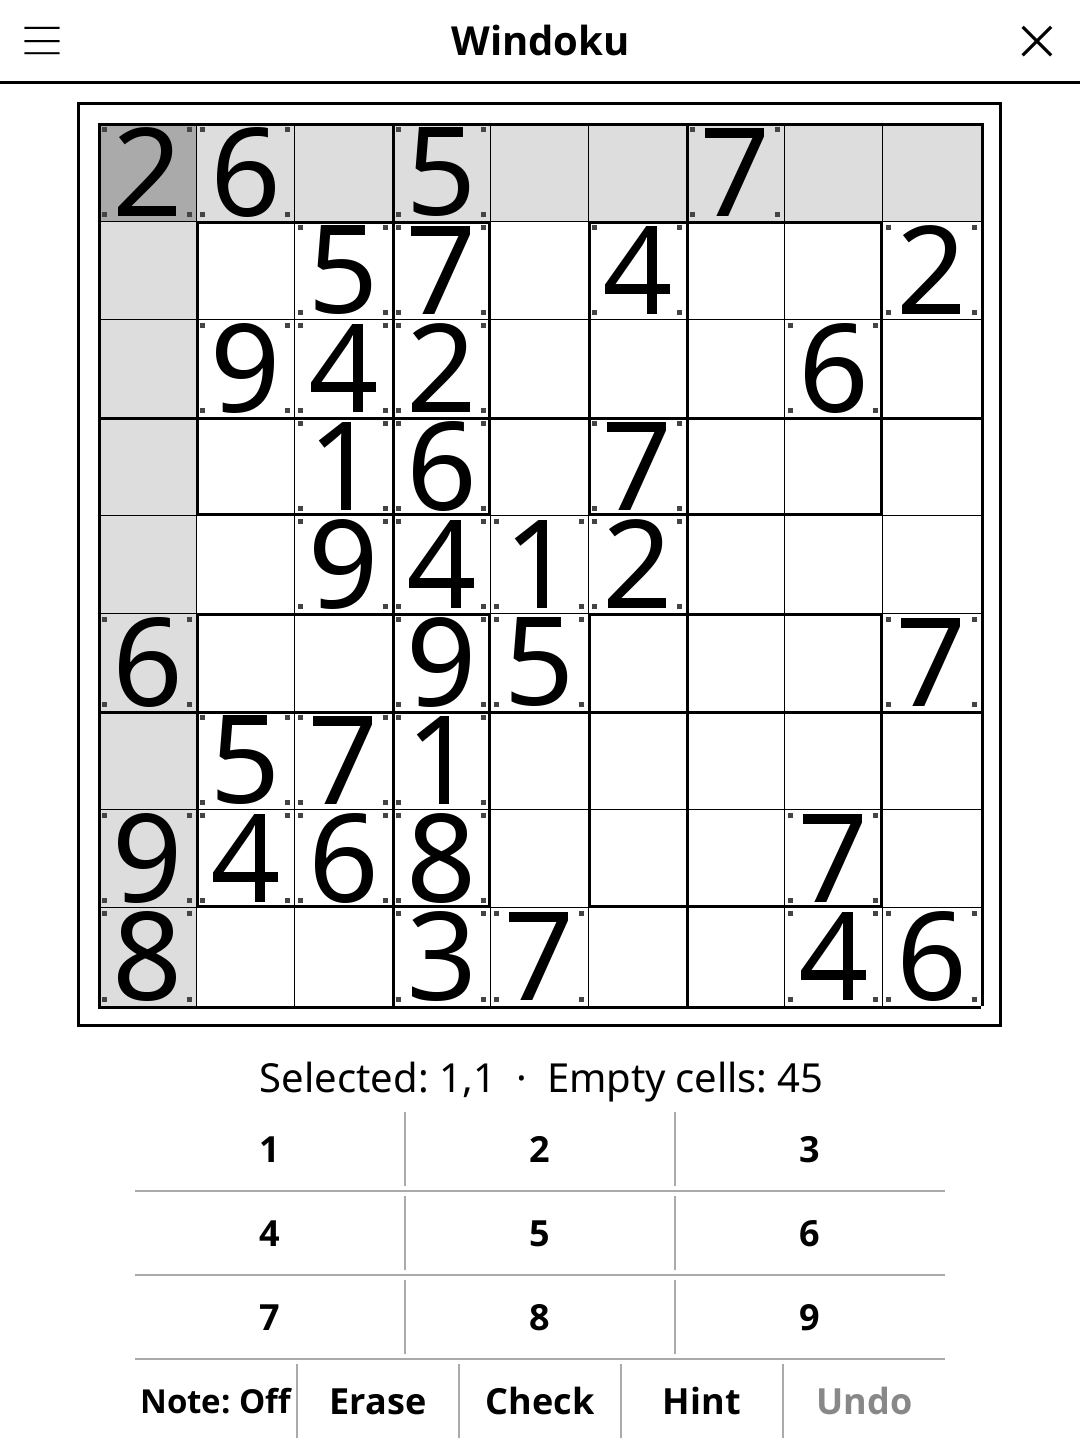
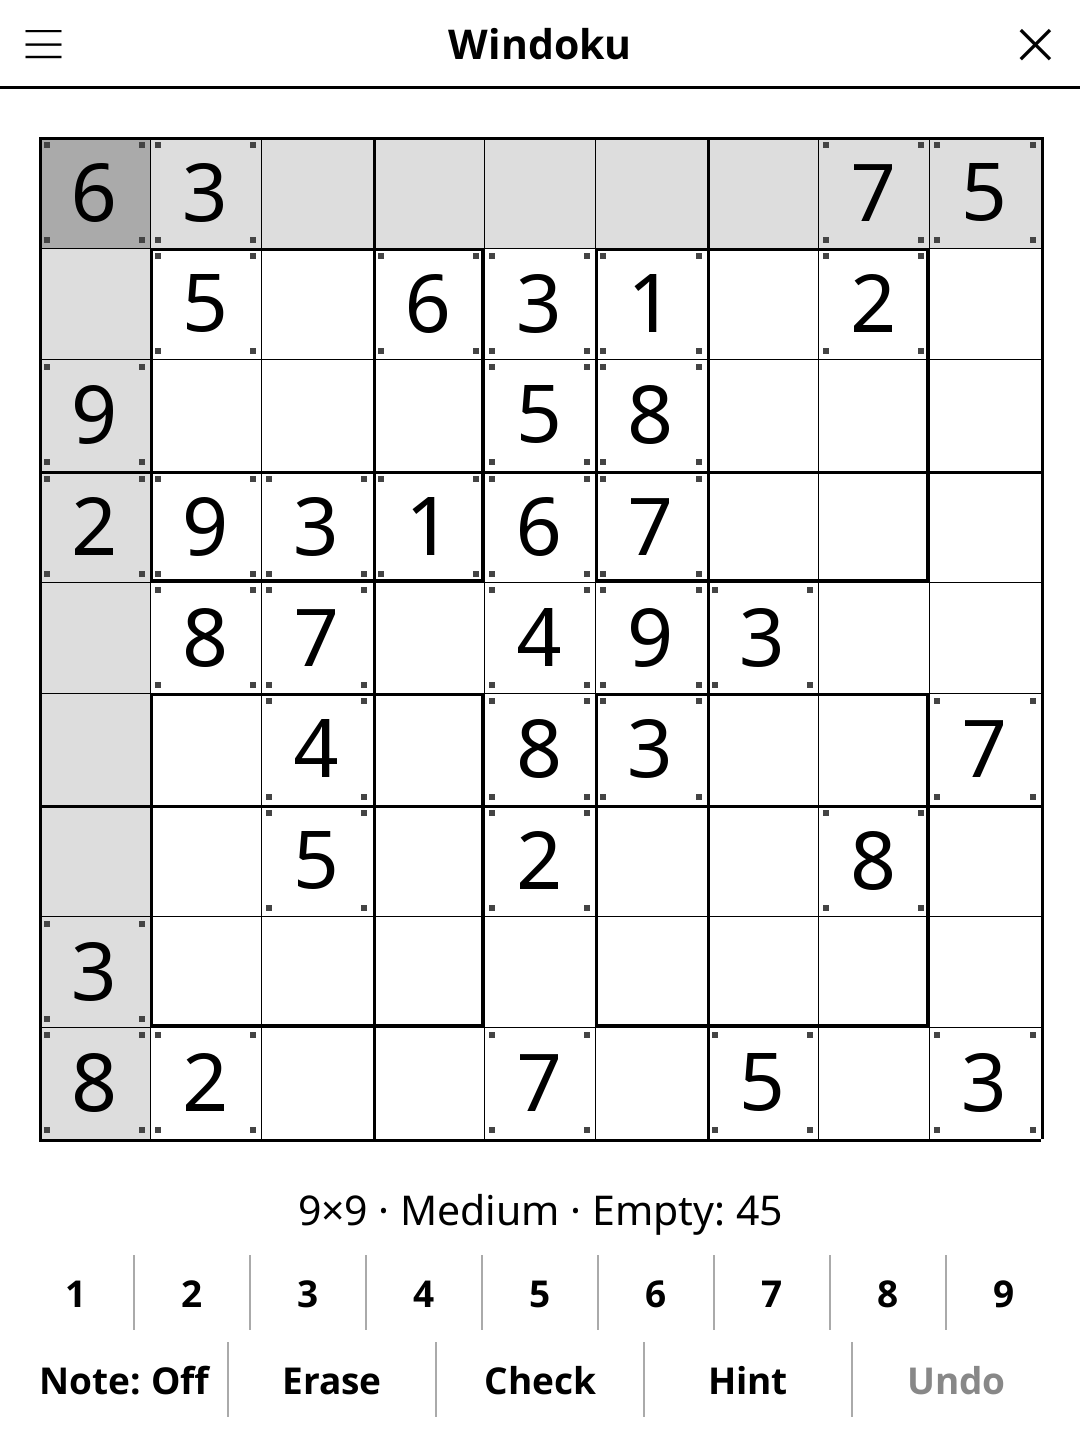
release: 1.4.0 -- redesigned screen, harmonised menu, New game at round end
Screen redesign (full-width action bar, unified pad, status line, larger
board), harmonised title-bar menu, and a "New game" button once the round
is over. See CHANGELOG.md.

diff --git a/CHANGELOG.md b/CHANGELOG.md
@@ -2,6 +2,25 @@
 
 All notable changes to this project will be documented in this file.
 
+## [1.4.0] - 2026-10-30
+
+### Changed
+- Redesigned play screen (sudoku-common 1.5.0): the board is larger, filling
+  the room the controls leave, with the digits 1-9 on one even row and Note /
+  Erase / Check / Hint / Undo in a full-width bar under the status line.
+- The status line reads "9×9 · Medium · Empty: 45" and wraps in landscape
+  instead of being cut off.
+- The title-bar menu shows "Difficulty: …" and "Show solution" / "Hide
+  solution" (was "Diff: …" and "Show result" / "Hide result"), like every
+  other game.
+- Once the puzzle is solved, the tool bar shows "New game" in place of
+  Note/Erase/Check/Hint/Undo; an Undo that un-solves the grid brings the tools
+  back.
+
+### Fixed
+- Digits overflowed their cells: the shared font fit accepted every size.
+  Digits and notes now fit their cell on every screen.
+
 ## [1.3.1] - 2026-10-02
 
 ### Fixed

diff --git a/README.md b/README.md
@@ -40,7 +40,7 @@ Standard 9×9 Sudoku rules plus four extra "window" 3×3 regions (one highlighte
 | Check progress | Tap **Check** |
 | Get a hint | Tap **Hint** (tap again to go deeper) |
 | New game | Tap **New game** |
-| Change difficulty | Tap **Diff** |
+| Change difficulty | Tap **Difficulty** |
 | Show rules | Tap **Rules** |
 
 ## License
